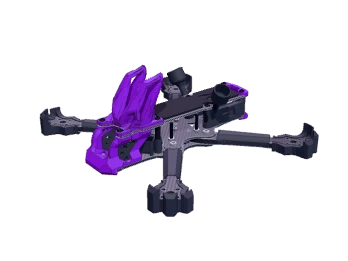
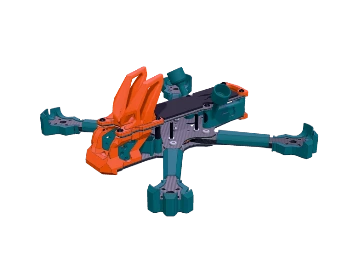
Refresh Cosmos V30 loading previews

Changed region(s): [[0.1149, 0.2452, 0.9195, 0.8276]]

diff --git a/index.html b/index.html
@@ -114,8 +114,8 @@
             <div class="shreddo-media">
               <picture>
                 <source media="(max-width: 620px)"
-                  srcset="assets/shreddo-hero/assembled-mobile.webp?v=cosmos-v6 1x, assets/shreddo-hero/assembled-mobile-2x.webp?v=cosmos-v6 2x">
-                <img src="assets/shreddo-hero/assembled.webp?v=cosmos-v6" width="1280" height="960"
+                  srcset="assets/shreddo-hero/assembled-mobile.webp?v=cosmos-v30-render 1x, assets/shreddo-hero/assembled-mobile-2x.webp?v=cosmos-v30-render 2x">
+                <img src="assets/shreddo-hero/assembled.webp?v=cosmos-v30-render" width="1280" height="960"
                   alt="Assembled Shreddo 5 carbon frame with a violet TPU canopy and graphite motor guards"
                   fetchpriority="high">
               </picture>

diff --git a/tpu-studio.html b/tpu-studio.html
@@ -46,7 +46,7 @@
             <button type="button" id="reset-view" disabled>Reset view</button>
           </div>
           <div class="studio-viewport">
-            <img src="assets/shreddo-hero/studio-assembled-perspective.webp?v=cosmos-v6" width="1380" height="960" alt="Shreddo 5 in violet and graphite">
+            <img src="assets/shreddo-hero/studio-assembled-perspective.webp?v=cosmos-v30-render" width="1380" height="960" alt="Shreddo 5 in violet and graphite">
           </div>
           <div class="preview-footer">
             <p id="viewer-status" role="status">Loading the 3D frame…</p>
